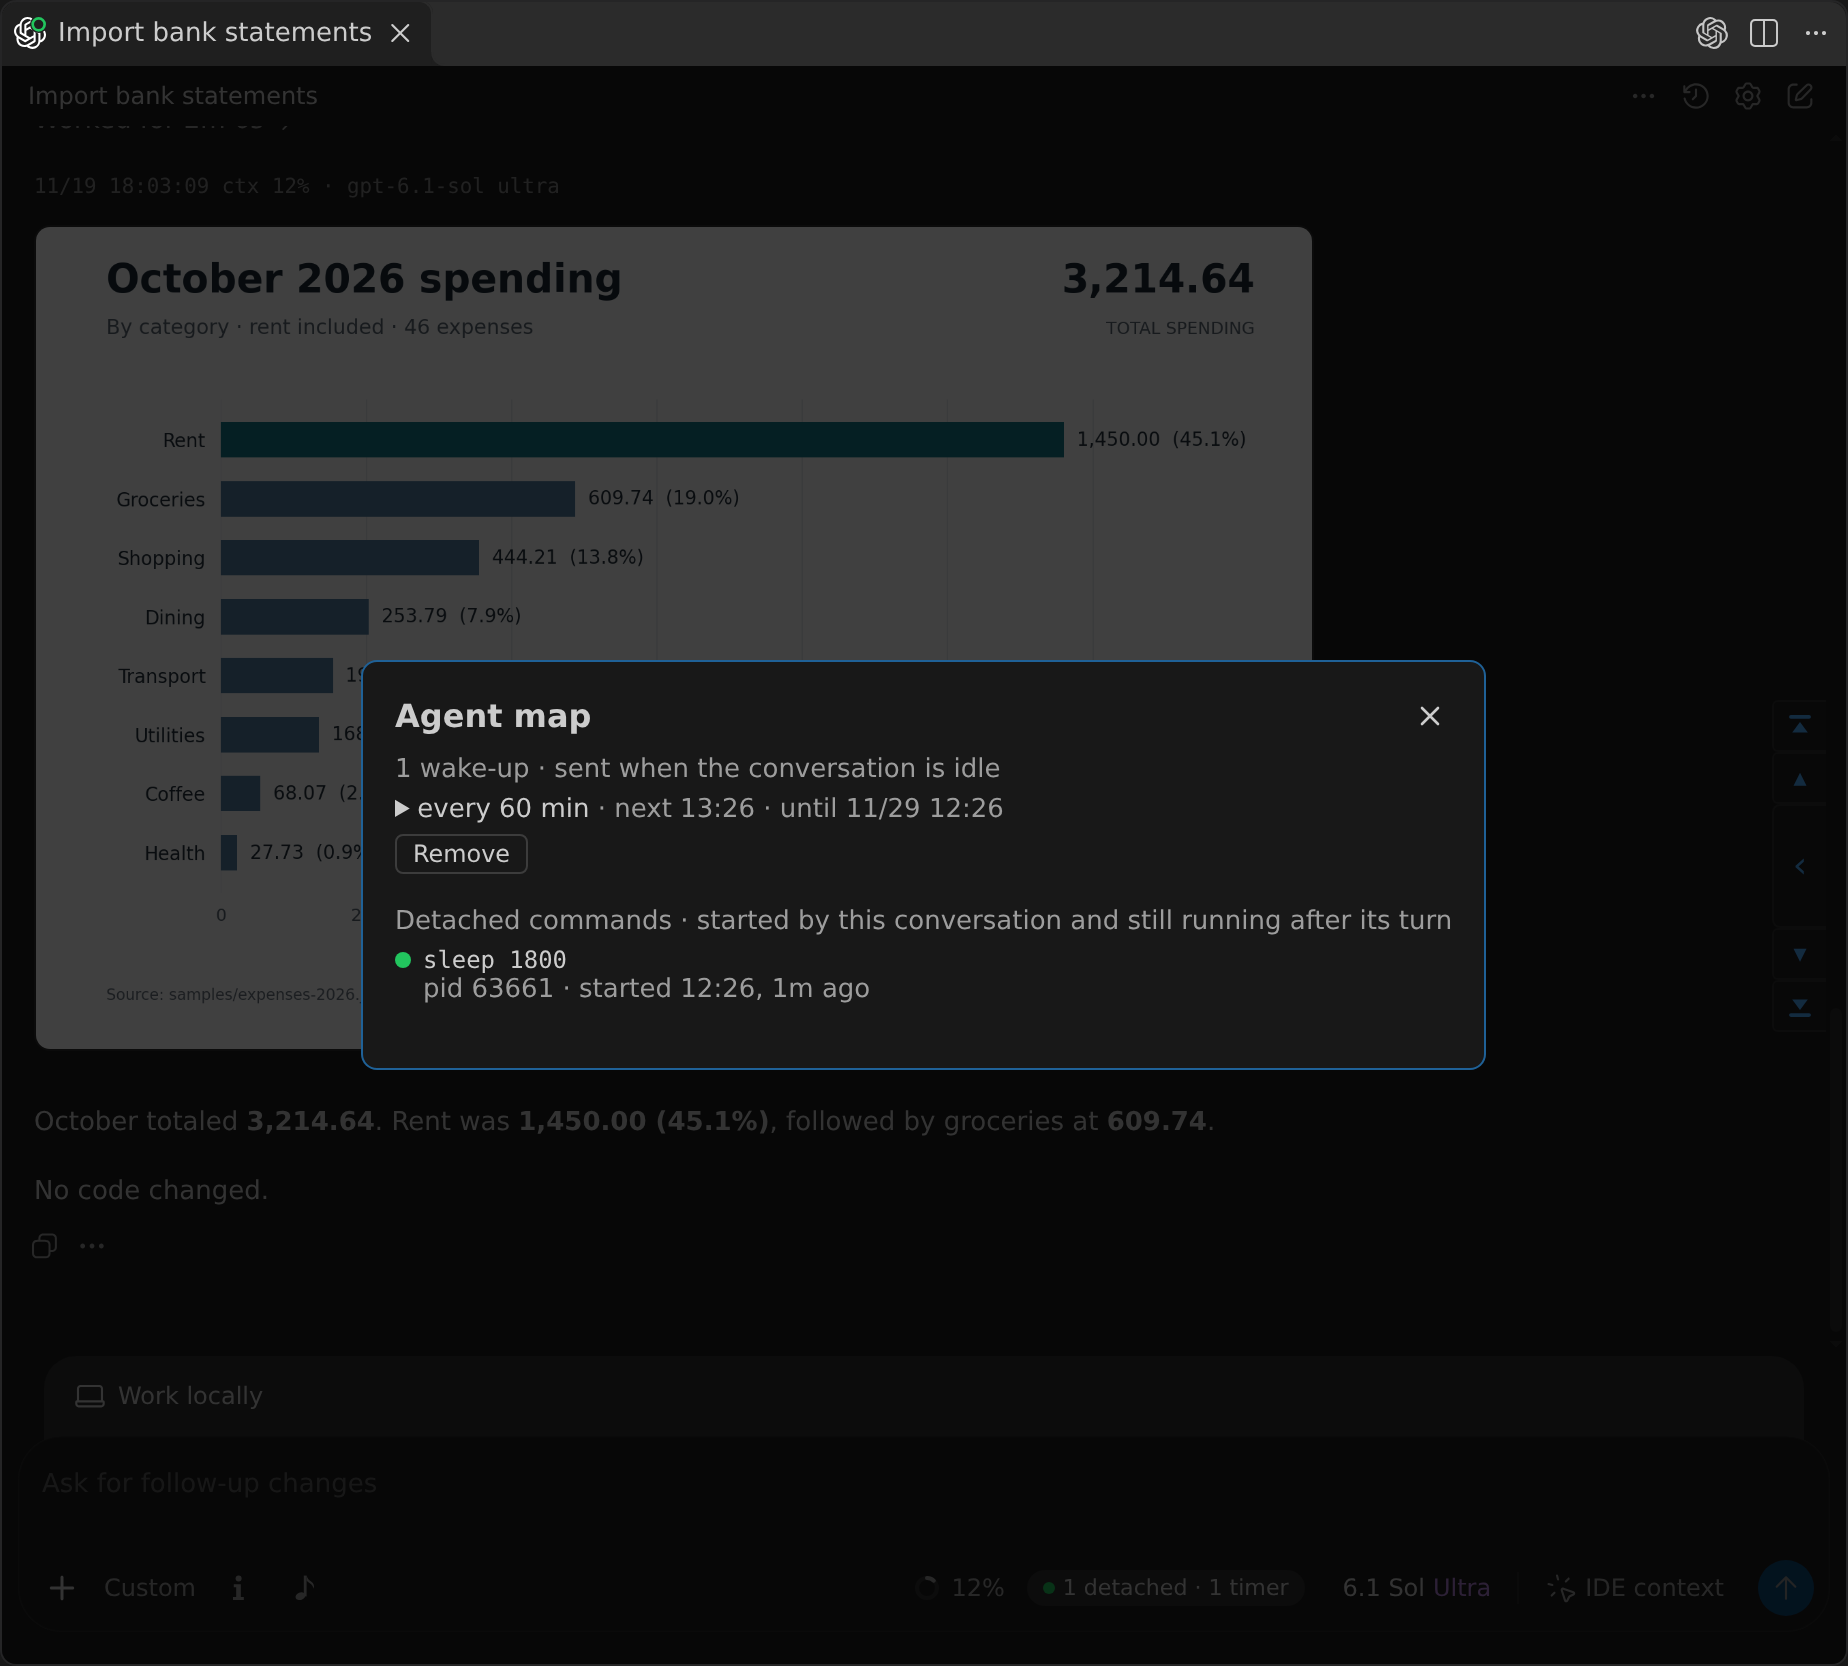
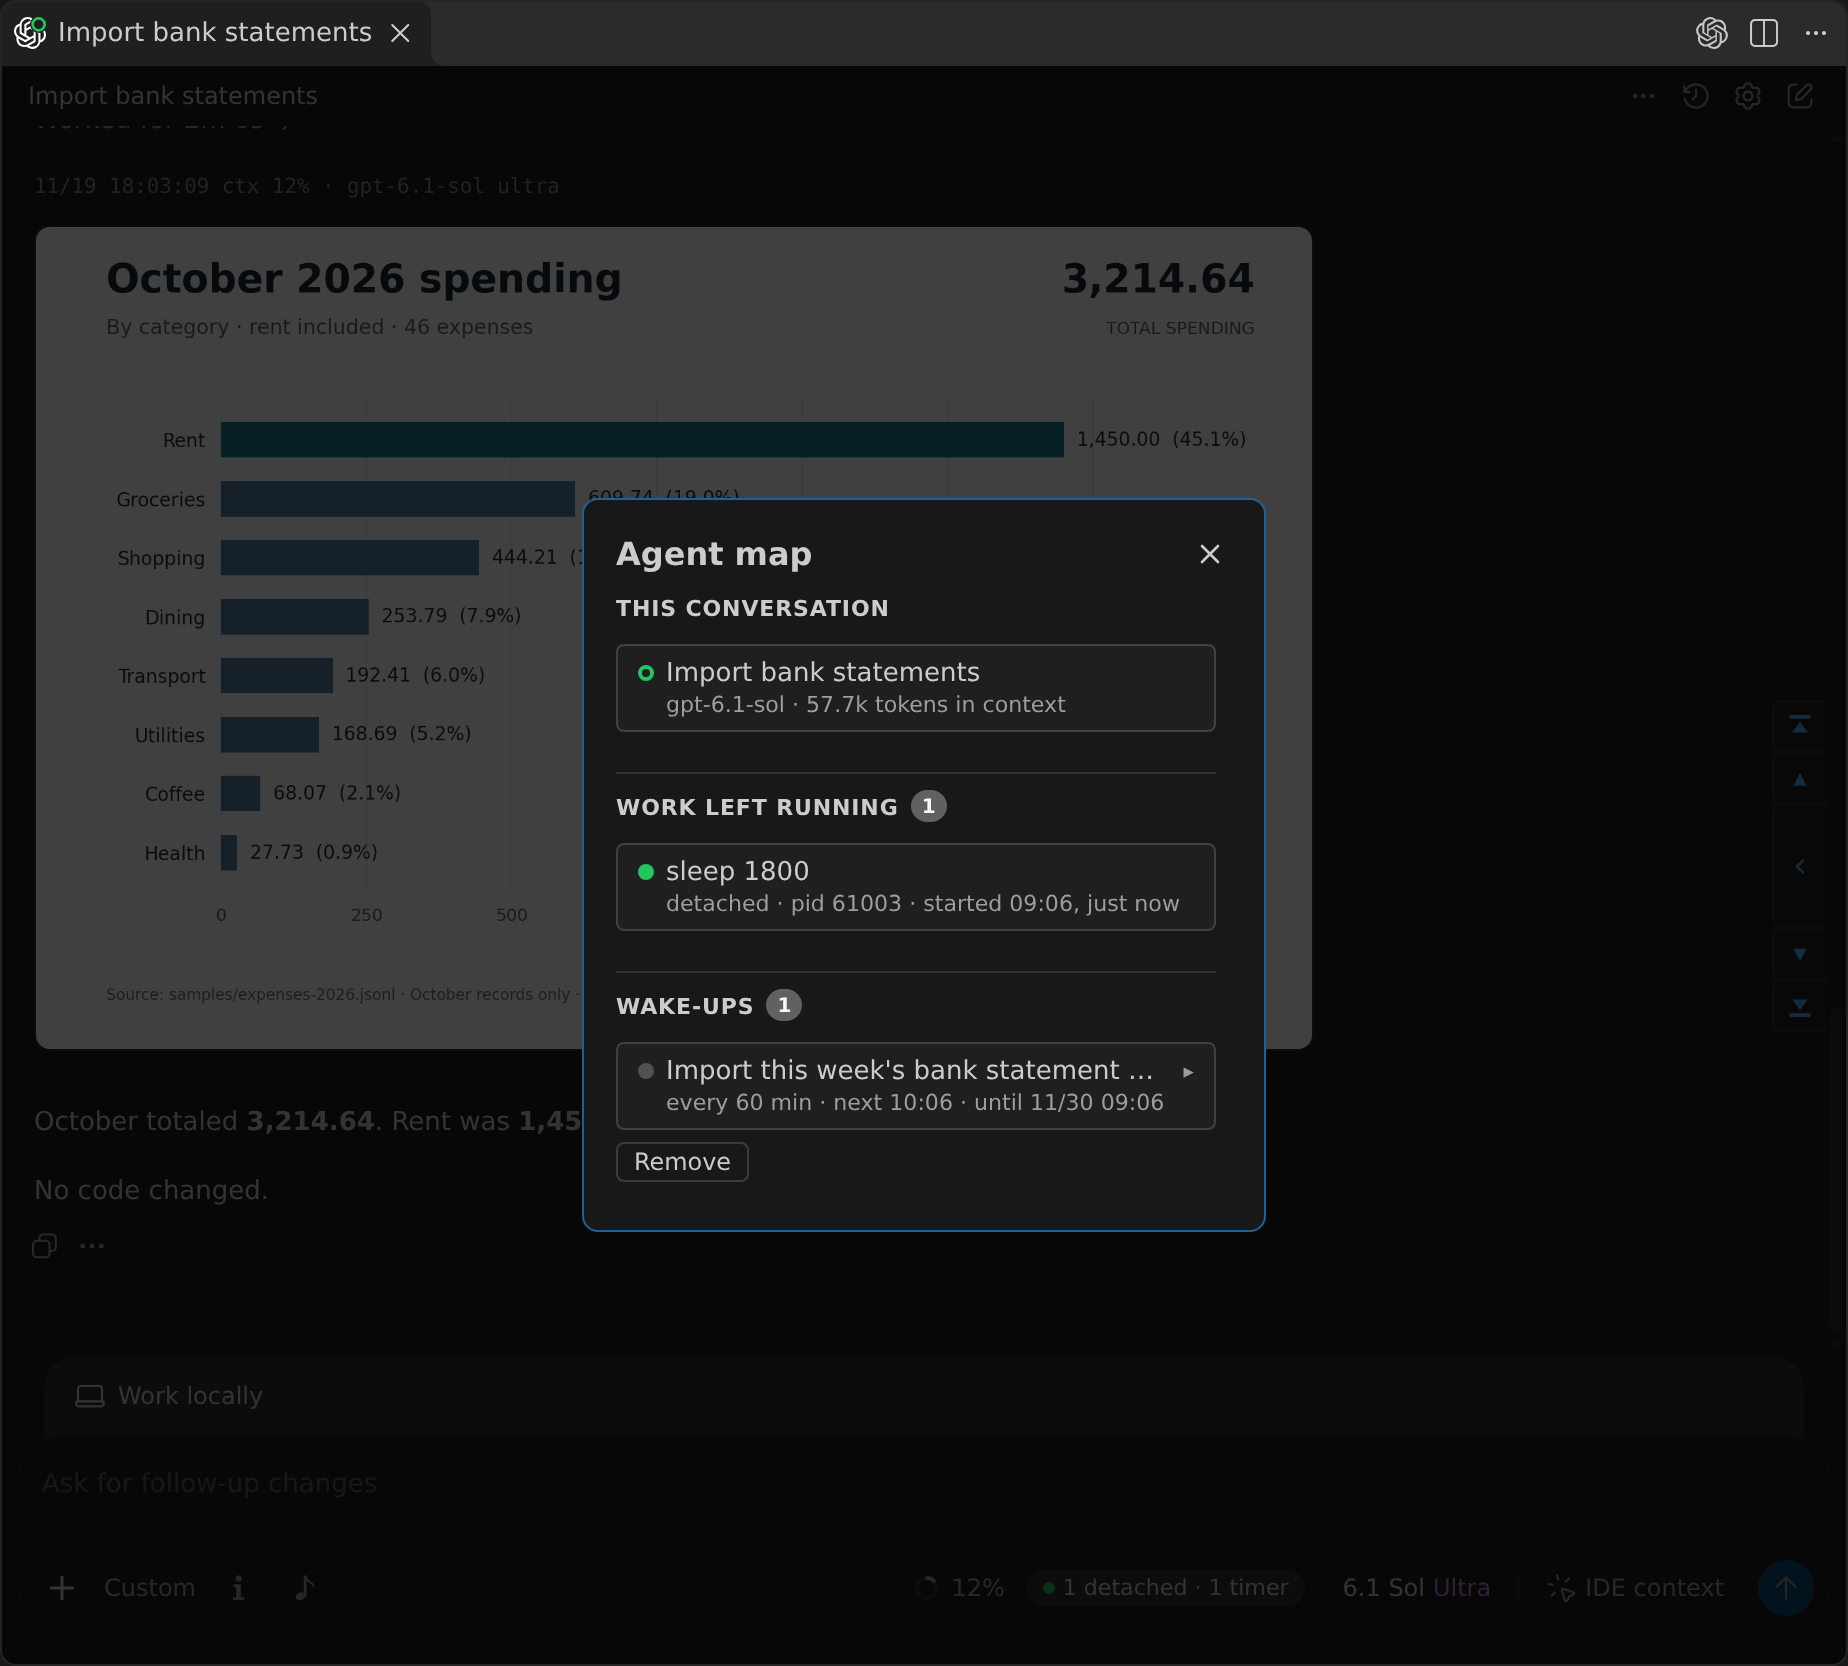
README: take the Agent map's screenshot again in its new layout

Changed region(s): [[0.1851, 0.2809, 0.7711, 0.7179]]

diff --git a/README.md b/README.md
@@ -273,7 +273,7 @@ The Agent map requires the patch. It appears as a pill like Claude Code's, for e
 
 Clicking the pill opens a dialog with a section for each kind of item. The wake-up section lists the interval, next wake-up time, end and prompt alongside a Remove button. The goal section shows its state and tokens alongside the Pause, Resume and Clear controls. Each sub-agent shows when it was last active and has a status dot with the same four states as in the session list. An envelope beside a sub-agent marks an unread reply, and clicking the sub-agent opens it in a tab. Each running item has a green dot. The dialog shows command lines for detached commands, background terminals and `codex exec` runs, while `claude -p` workers and `claude --bg` sessions appear under the names Claude Code gives them. Pressing Esc or clicking outside the dialog closes it.
 
-![The Agent map with a wake-up and a detached command](images/shots/agent-map.png)
+![The Agent map with the conversation's own row, a detached command left running and a wake-up](images/shots/agent-map.png)
 
 ## Chimes
 
